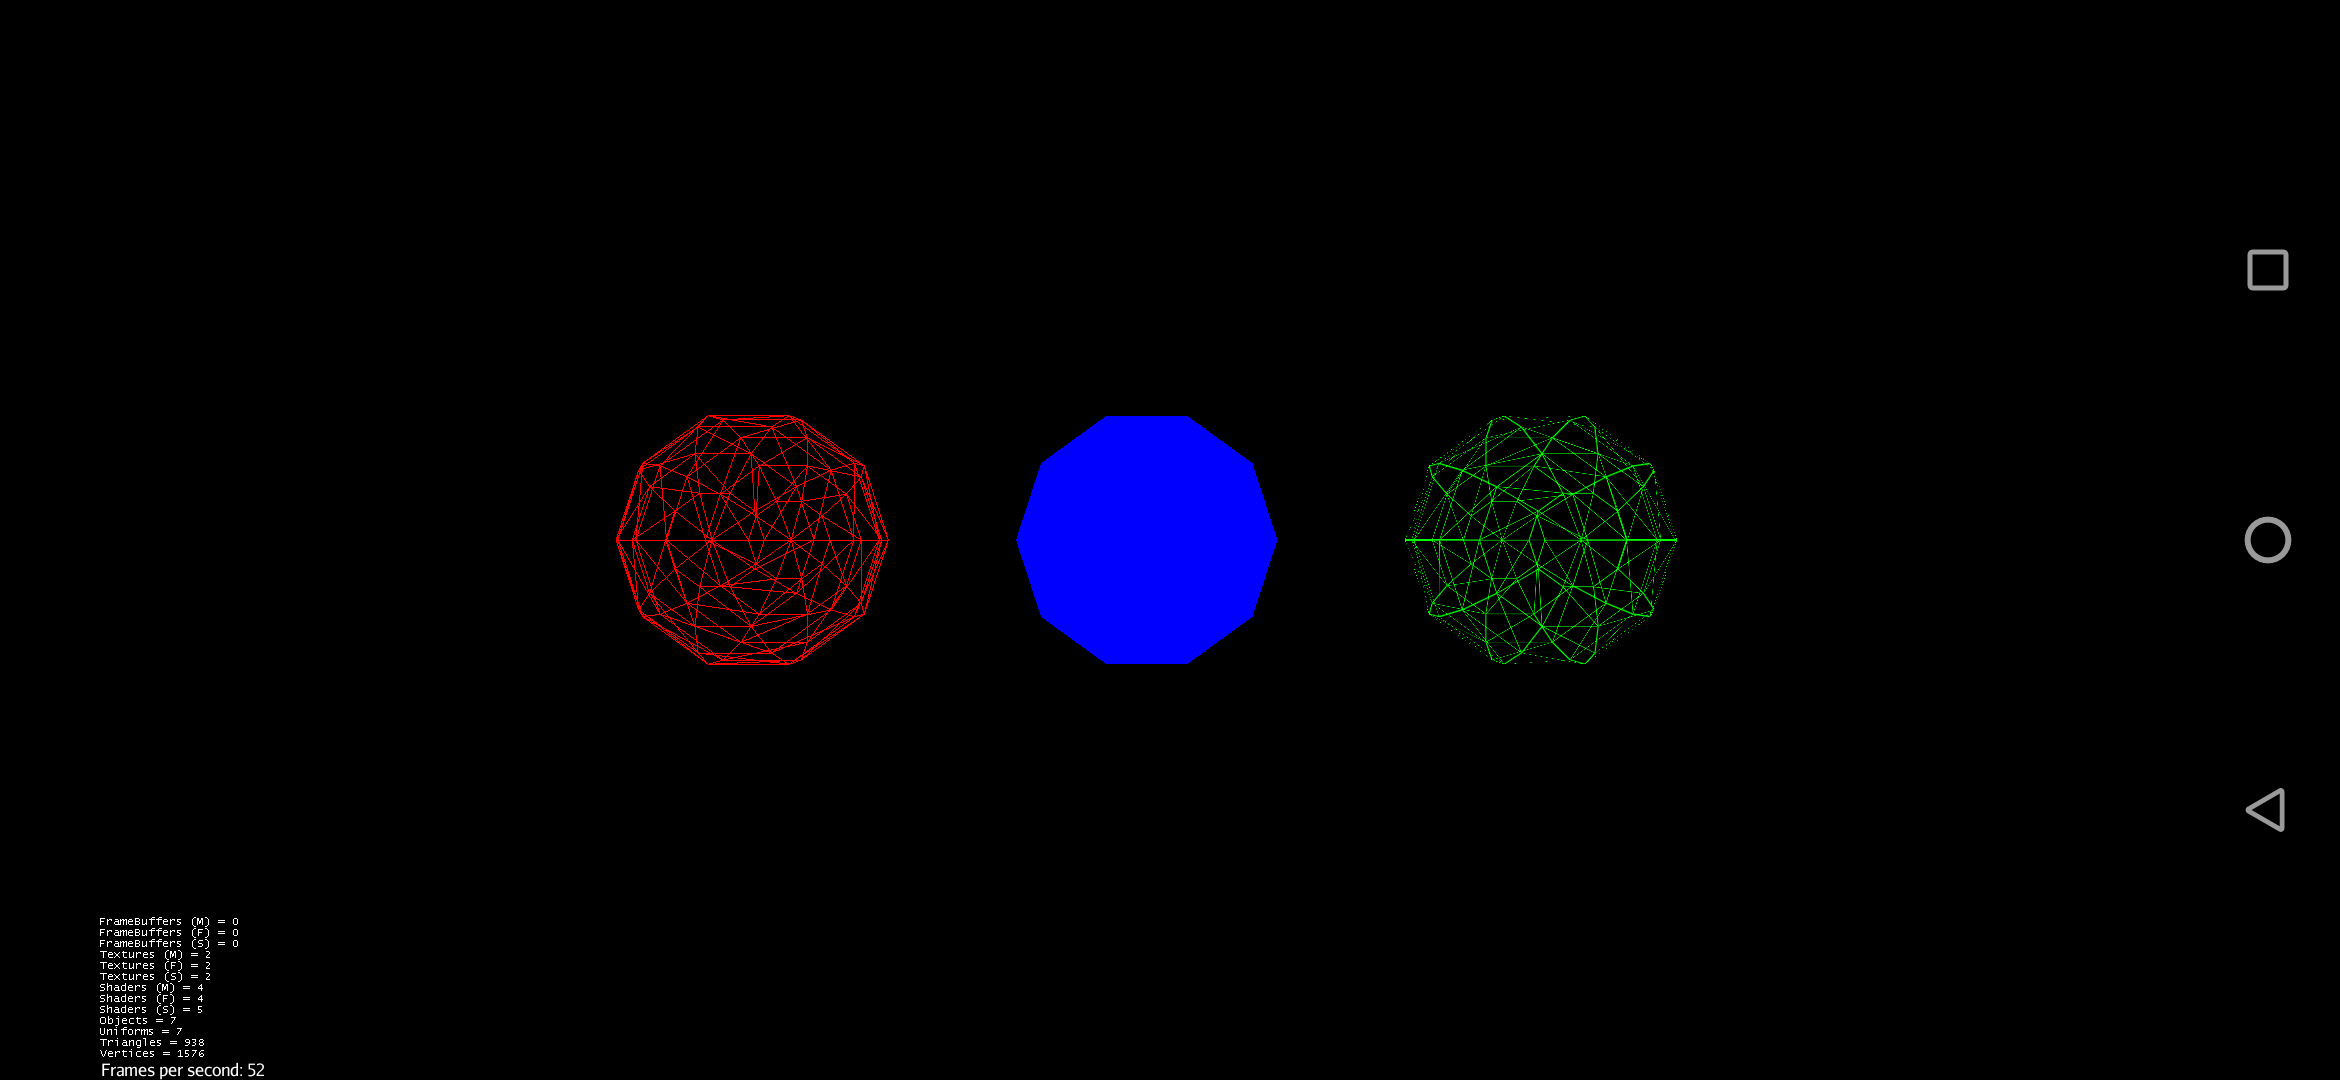
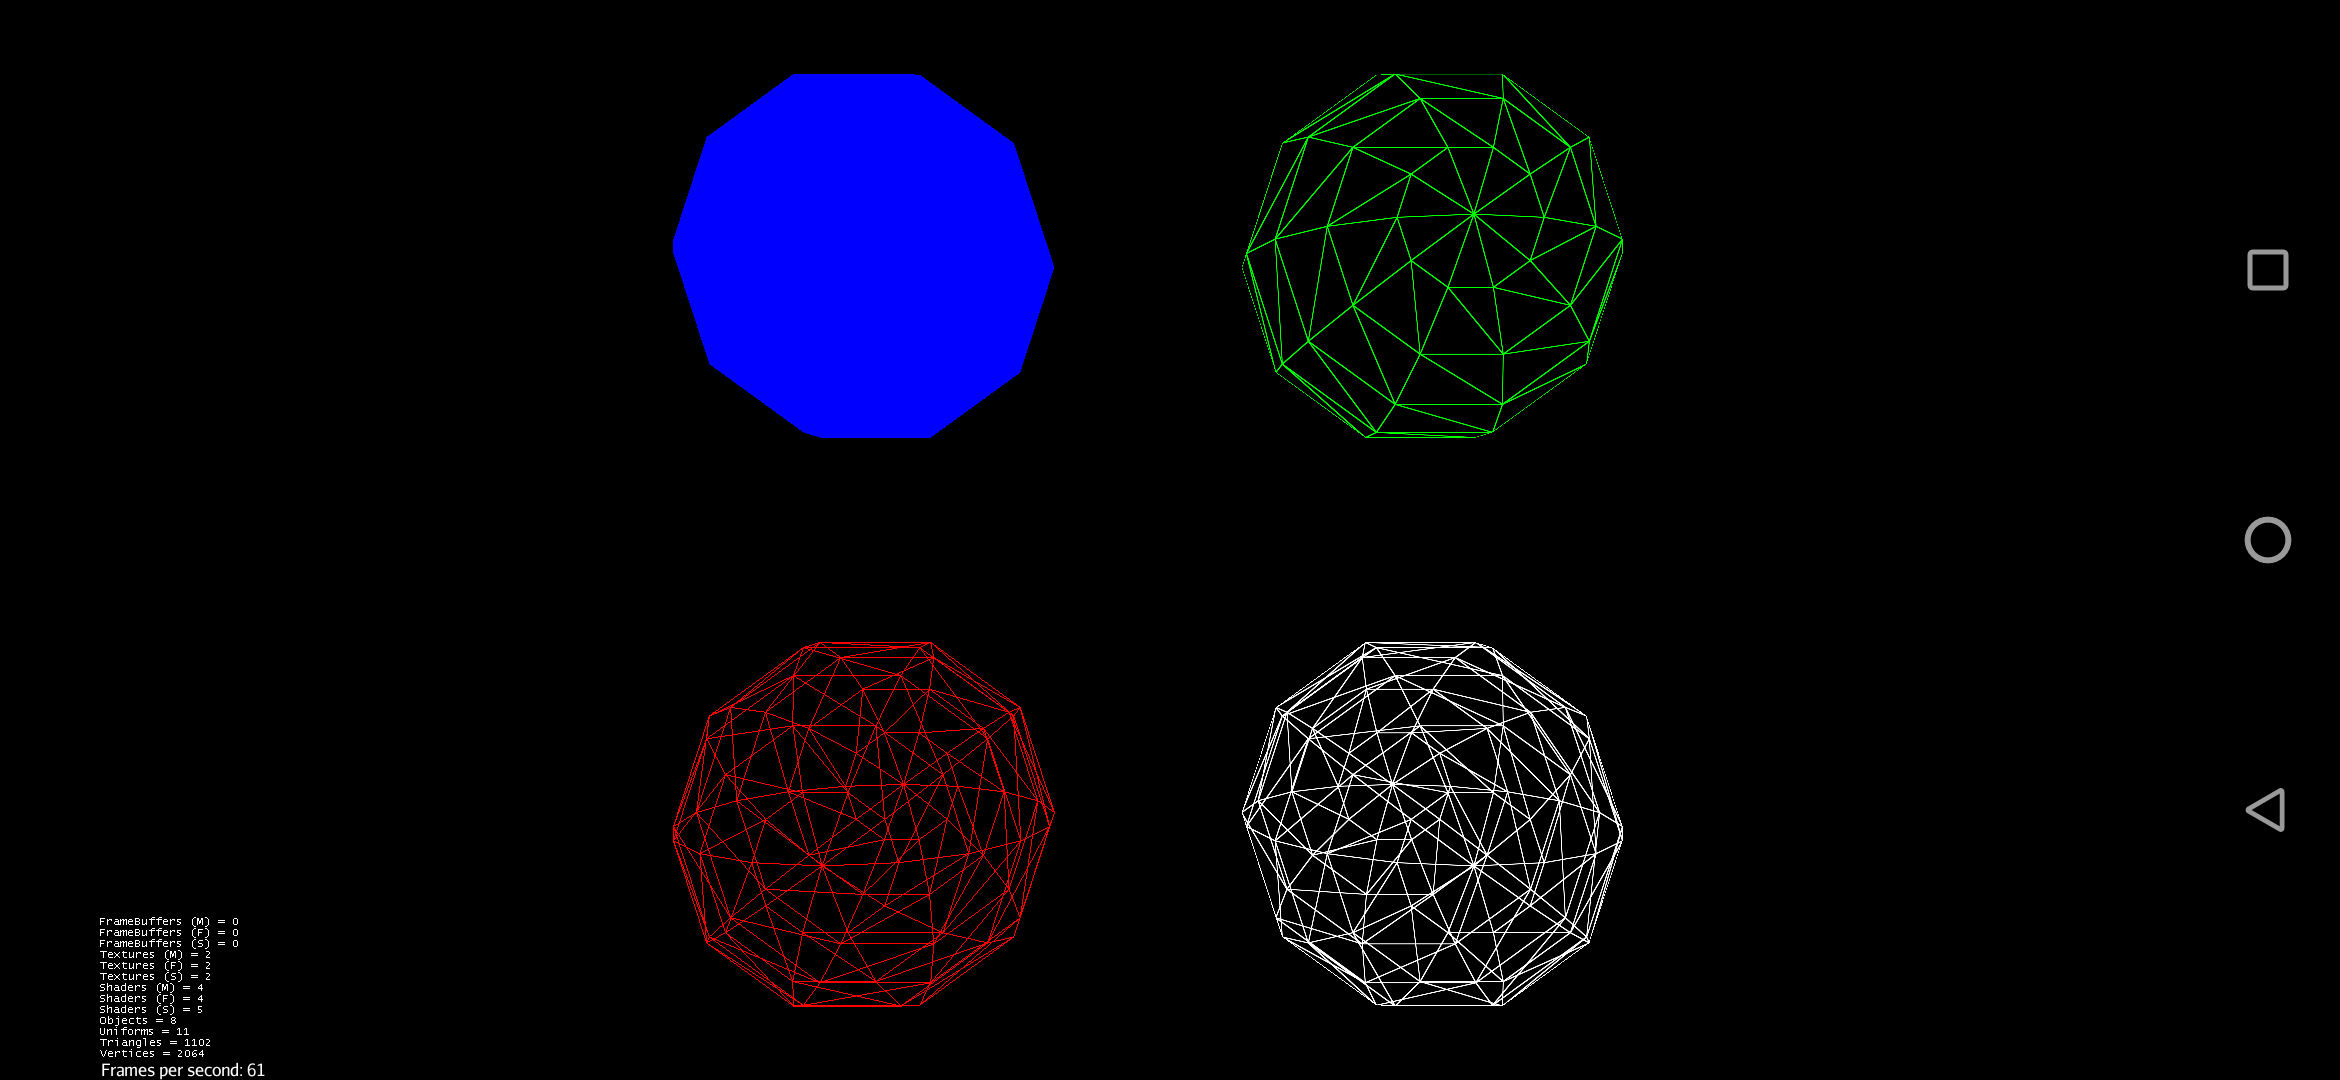
Improved implementation to use fwidth so we have static line width independant of model distance. Fallback to a more basic implementation with worse rendering but good enough

diff --git a/core/src/org/joliver82/jmewireframe/Game.java b/core/src/org/joliver82/jmewireframe/Game.java
@@ -2,7 +2,9 @@ package org.joliver82.jmewireframe;
 
 import com.jme3.app.SimpleApplication;
 import com.jme3.material.Material;
+import com.jme3.material.RenderState;
 import com.jme3.math.ColorRGBA;
+import com.jme3.math.Vector3f;
 import com.jme3.scene.Geometry;
 import com.jme3.scene.Mesh;
 import com.jme3.scene.VertexBuffer;
@@ -17,32 +19,47 @@ public class Game extends SimpleApplication {
 
     @Override
     public void simpleInitApp() {
+        flyCam.setDragToRotate(true);
+        cam.setLocation(new Vector3f(0f,0f,7f));
+
         // Materials
-        Material wireframeMat = new Material(assetManager, "MatDefs/Wireframe.j3md");
-        wireframeMat.setColor("Color", ColorRGBA.Red);
         Material mat = new Material(assetManager, "Common/MatDefs/Misc/Unshaded.j3md");
         mat.setColor("Color", ColorRGBA.Blue);
         mat.getAdditionalRenderState().setWireframe(true);
+        Material wireframeMat = new Material(assetManager, "MatDefs/Wireframe.j3md");
+        wireframeMat.setColor("Color", ColorRGBA.Red);
         Material matWireframeBarycentric = new Material(assetManager, "MatDefs/BarycentricWireframe.j3md");
         matWireframeBarycentric.setColor("Color", ColorRGBA.Green);
-
-        // Uses geometry shader aproach
-        Geometry geometry0 = new Geometry("S0", new Sphere(10, 10, 1));
-        geometry0.setLocalTranslation(-3, 0, 0);
-        geometry0.setMaterial(wireframeMat);
-        rootNode.attachChild(geometry0);
+        Material matWireframeBarycentricNotCulling = new Material(assetManager, "MatDefs/BarycentricWireframe.j3md");
+        matWireframeBarycentricNotCulling.setColor("Color", ColorRGBA.White);
+        matWireframeBarycentricNotCulling.getAdditionalRenderState().setFaceCullMode(RenderState.FaceCullMode.Off);
+        matWireframeBarycentricNotCulling.getAdditionalRenderState().setDepthTest(false); //Disabled depth test because some backfaces were not rendered properly
 
         // Uses jme3 renderstate wireframe
+        Geometry geometry0 = new Geometry("S0", new Sphere(10, 10, 1));
+        geometry0.setLocalTranslation(-1.5f, 1.5f, 0);
+        geometry0.setMaterial(mat);
+        rootNode.attachChild(geometry0);
+
+        // Uses geometry shader aproach
         Geometry geometry1 = new Geometry("S1", new Sphere(10, 10, 1));
-        geometry1.setMaterial(mat);
+        geometry1.setLocalTranslation(-1.5f, -1.5f, 0);
+        geometry1.setMaterial(wireframeMat);
         rootNode.attachChild(geometry1);
 
         // Uses Barycentric coordinates aproach
-        Mesh barySphere = setBarycentricCoords(new Sphere(10, 10, 1));
-        Geometry geometry2 = new Geometry("S2", barySphere);
-        geometry2.setLocalTranslation(3, 0, 0);
+        Mesh barySphere0 = setBarycentricCoords(new Sphere(10, 10, 1));
+        Geometry geometry2 = new Geometry("S2", barySphere0);
+        geometry2.setLocalTranslation(1.5f, 1.5f, 0);
         geometry2.setMaterial(matWireframeBarycentric);
         rootNode.attachChild(geometry2);
+
+        // Uses Barycentric coordinates aproach
+        Mesh barySphere1 = setBarycentricCoords(new Sphere(10, 10, 1));
+        Geometry geometry3 = new Geometry("S3", barySphere1);
+        geometry3.setLocalTranslation(1.5f, -1.5f, 0);
+        geometry3.setMaterial(matWireframeBarycentricNotCulling);
+        rootNode.attachChild(geometry3);
     }
 
     /**

diff --git a/README.md b/README.md
@@ -29,8 +29,7 @@ Vertex shader: It works as usual calculating gl_Position but we're just keeping 
 
 Fragment shader: Calculates the minimal distance to the edge and sets alpha accordingly, if distance<0.2 sets alpha>0
 
-From the jme3 side, the material is set to avoid depth writes and tests and also disables face culling so we can use this for debug shapes
-
+Improved rendering to use "newer" GLSL capabilities (fwidth) so wireframe lines have static width when possible, otherwise fallback to previous implementation having worse looking.
 
 ## Future work
 
@@ -45,7 +44,7 @@ Not sure I'll spend more time or not into this, but...
 
 Just load the project with latest Android Studio (Tested using 4.1.2) and run 
 
-The sample app shows three spheres from left to right: Geometry shader approach, jME3 default wireframe mode (will render solid on android) and Barycentric coordinates approach.
+The sample app shows four spheres from left to right, top to bottom: jME3 default wireframe mode (will render solid on android), Barycentric coordinates approach mimicing jME3's default, Geometry shader approach and Barycentric coordinates approach mimicing geometry shader approach.
 
 Desktop screenshot:
 ![Alt text](/screenshots/wireframe-desktop.png?raw=true "Desktop screenshot")
